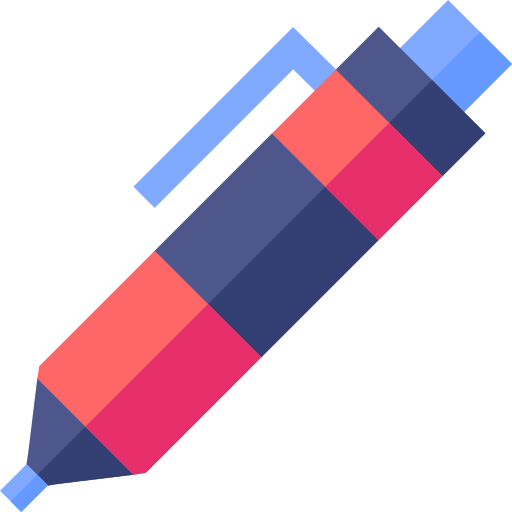
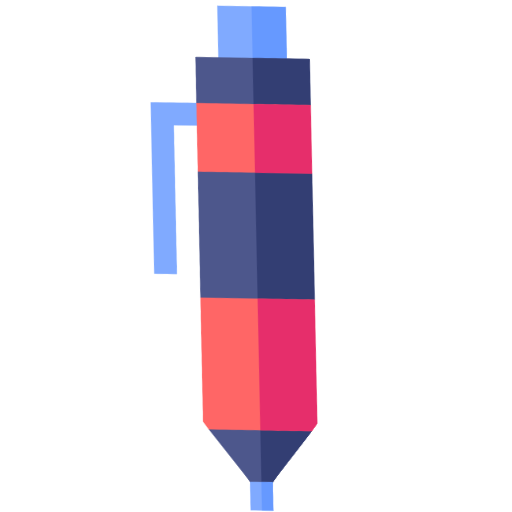
niveles

diff --git a/src/states/mapa.py b/src/states/mapa.py
@@ -3,6 +3,7 @@ from pathlib import Path
 
 class mapas():
     def __init__(self,lista_nivel,imagenes_libreria):
+
         self.BASE_DIR = Path(__file__).resolve().parent.parent.parent
         self.ASSETS_DIR = self.BASE_DIR / "assets"
         self.arrastrando = False
@@ -10,23 +11,39 @@ class mapas():
         self.objetos_activos = [] # Aquí guardaremos diccionarios con {imagen, rect}
         self.objeto_seleccionado = None
         self.imagenes = self.obtener_objeto(imagenes_libreria)
+
         # Inicializamos los objetos del nivel UNA SOLA VEZ
         for obj in lista_nivel:
-            img = self.imagenes[obj["tipo"]]
+            img_original = self.imagenes[obj["tipo"]]
+            
+            if "size" in obj:
+                img_original = pygame.transform.scale(img_original, obj["size"])
+            else:
+                img_original = pygame.transform.scale(img_original, (150, 100))  # Tamaño por defecto
+            
+            img = img_original
+            if "rotation" in obj:
+                img = pygame.transform.rotate(img_original, obj["rotation"])
+            
             rect = img.get_rect(topleft=obj["pos"])
             mask = pygame.mask.from_surface(img)
-            silueta_img = mask.to_surface(setcolor=(50, 50, 50, 150), unsetcolor=(0, 0, 0, 0))
-            # Creamos la sombra (meta) para este objeto
-            rect_meta = img.get_rect(topleft=obj["pos_meta"])
+            mask_original = pygame.mask.from_surface(img_original)
+            
+            silueta_img = mask_original.to_surface(setcolor=(50, 50, 50, 150), unsetcolor=(0, 0, 0, 0))
+            rect_meta = img_original.get_rect(topleft=obj["pos_meta"])
             
             self.objetos_activos.append({
                 'tipo': obj["tipo"],
                 'img': img,
+                'img_original': img_original,
+                'img_rotated': img if "rotation" in obj else None,
                 'rect': rect,
                 'mask': mask,
                 'silueta': silueta_img,
                 'rect_meta': rect_meta,
-                'encajado': False
+                'encajado': False,
+                'rotated': "rotation" in obj,
+                'has_rotation': "rotation" in obj
             })
         
     
@@ -34,11 +51,10 @@ class mapas():
         # Ajustado para usar la ruta dinámica
         imagenes_listas = {}
         for clave, ruta in NIVEL.items():
-        # Cargamos y optimizamos la imagen para Pygame
-           IMAGE_PATH = self.BASE_DIR / ruta
-           img = pygame.image.load(str(IMAGE_PATH)).convert_alpha()
-           image = pygame.transform.scale(img, (150, 100)) 
-           imagenes_listas[clave] = image
+        # Cargamos la imagen sin escalar
+            IMAGE_PATH = self.BASE_DIR / ruta
+            img = pygame.image.load(str(IMAGE_PATH)).convert_alpha()
+            imagenes_listas[clave] = img
         return imagenes_listas
     
     
@@ -55,27 +71,46 @@ class mapas():
                         x_rel = event.pos[0] - obj['rect'].x
                         y_rel = event.pos[1] - obj['rect'].y
                         
-                        if obj['mask'].get_at((x_rel, y_rel)):
-                            print(f"¡Agarraste el objeto: {obj['tipo']}!")
-                            self.objeto_seleccionado = obj
-                            self.offset_x = obj['rect'].x - event.pos[0]
-                            self.offset_y = obj['rect'].y - event.pos[1]
+                        try:
+                            if 0 <= x_rel < obj['mask'].get_size()[0] and 0 <= y_rel < obj['mask'].get_size()[1]:
+                                if obj['mask'].get_at((x_rel, y_rel)):
+                                    print(f"¡Agarraste el objeto: {obj['tipo']}!")
+                                    self.objeto_seleccionado = obj
+                                    self.offset_x = obj['rect'].x - event.pos[0]
+                                    self.offset_y = obj['rect'].y - event.pos[1]
+                                    
+                                    if obj['rotated']:
+                                        centro = obj['rect'].center
+                                        obj['img'] = obj['img_original']
+                                        obj['rect'] = obj['img'].get_rect(center=centro)
+                                        obj['mask'] = pygame.mask.from_surface(obj['img'])
+                                        obj['rotated'] = False
+                                    
+                                    self.objetos_activos.remove(obj)
+                                    self.objetos_activos.append(obj)
+                        except IndexError:
+                            pass
                         print(f"¡Objeto seleccionado: {obj['tipo']}!")
                         break
 
         elif event.type == pygame.MOUSEBUTTONUP:
             if event.button == 1 and self.objeto_seleccionado:
-                # LÓGICA DE ENCAJE (SNAP)
                 obj = self.objeto_seleccionado
                 
-                # Calculamos distancia entre el objeto y su meta
                 distancia = pygame.math.Vector2(obj['rect'].topleft).distance_to(obj['rect_meta'].topleft)
                 
-                # Si está a menos de 40 píxeles, lo succionamos a la meta
                 if distancia < 40:
                     obj['rect'].topleft = obj['rect_meta'].topleft
                     obj['encajado'] = True
                     print(f"¡{obj['tipo']} colocado correctamente!")
+
+                else:
+                    if obj['has_rotation'] and not obj['rotated']:
+                        centro = obj['rect'].center
+                        obj['img'] = obj['img_rotated']
+                        obj['rect'] = obj['img'].get_rect(center=centro)
+                        obj['mask'] = pygame.mask.from_surface(obj['img'])
+                        obj['rotated'] = True
                 
                 self.objeto_seleccionado = None
 

diff --git a/src/utils/constants.py b/src/utils/constants.py
@@ -1,25 +1,88 @@
-# Ejemplo de lista de lo que queremos ver en pantalla
+
 NIVEL1 = {
     
-    "cable1": "assets/images/nivel1/2547122.png",
-    "cable2": "assets/images/nivel1/6475229.png",
-    "cable3": "assets/images/nivel1/7663880.png",
-    "cable4": "assets/images/nivel1/11152790.png",
+    "cablegris": "assets/images/nivel1/2547122.png",
+    "cablecolores": "assets/images/nivel1/6475229.png",
+    "cableblanco": "assets/images/nivel1/7663880.png",
+    "cablenegro": "assets/images/nivel1/11152790.png",
     "herramienta1": "assets/images/nivel1/herramienta1.png",
-    "herramienta2": "assets/images/nivel1/herramienta2.png",
-    "herramienta3": "assets/images/nivel1/herramienta3.png",
-    "herramienta4": "assets/images/nivel1/herramienta4.png",
+    "llave": "assets/images/nivel1/herramienta2.png",
+    "sierra": "assets/images/nivel1/herramienta3.png",
+    "destornillador": "assets/images/nivel1/herramienta4.png",
     
 }
-# Ejemplo de lista de lo que queremos ver en pantalla
+
 lista_nivel1= [
-    {"tipo": "cable1", "pos": (50, 50),"pos_meta":(500, 300)},
-    {"tipo": "cable2", "pos": (300, 200),"pos_meta":(100, 200)},
-    {"tipo": "cable3", "pos": (500, 400),"pos_meta":(373, 334)},
-    {"tipo": "cable4", "pos": (700, 400),"pos_meta":(111, 400)},
-    {"tipo": "herramienta1", "pos": (100, 200),"pos_meta":(200, 300)},
-    {"tipo": "herramienta2", "pos": (300, 200),"pos_meta":(600, 300)},
-    {"tipo": "herramienta3", "pos": (500, 400),"pos_meta":(600, 300)},
-    {"tipo": "herramienta4", "pos": (700, 400),"pos_meta":(100, 300)}
+
+    {"tipo": "cablegris", "pos": (1059, 403),"pos_meta":(292, 142), "size": (122, 122), "rotation": 10},
+    {"tipo": "cablecolores", "pos": (1120, 18),"pos_meta":(442, 142), "size": (114, 114), "rotation": 10},
+    {"tipo": "cableblanco", "pos": (13, 560),"pos_meta":(671, 496), "size": (153, 153), "rotation": 7},
+    {"tipo": "cablenegro", "pos": (0, 157),"pos_meta":(825, 465), "size": (185, 185), "rotation": 11},
+    {"tipo": "herramienta1", "pos": (36, 362),"pos_meta":(819, 97), "size": (168, 168), "rotation": 351},
+    {"tipo": "llave", "pos": (1068,157),"pos_meta":(666, 111), "size": (211, 211), "rotation": 342},
+    {"tipo": "sierra", "pos": (1014, 343),"pos_meta":(201, 307), "size": (376, 376), "rotation": 356},
+    {"tipo": "destornillador", "pos": (36, 0),"pos_meta":(458, 496), "size": (164, 164), "rotation": 330}
+
     ]
-NIVEL2 = {}
+
+NIVEL2 = {
+
+    "borrador": "assets/images/nivel2/borrador.png",
+    "colores": "assets/images/nivel2/colores.png",
+    "lapicero": "assets/images/nivel2/lapicero.png",
+    "lapicero2": "assets/images/nivel2/lapicero2.png",
+    "lapiz": "assets/images/nivel2/lapiz.png",
+    "libreta": "assets/images/nivel2/libreta.png",
+    "marcadores": "assets/images/nivel2/marcadores.png",
+    "pegablanca": "assets/images/nivel2/pegablanca.png",
+    "pegaenbarra": "assets/images/nivel2/pegaenbarra.png",
+    "regla": "assets/images/nivel2/regla.png",
+    "sacapuntas": "assets/images/nivel2/sacapuntas.png",
+    "tijeras": "assets/images/nivel2/tijeras.png",
+    "tipex": "assets/images/nivel2/tipex.png",
+
+}
+
+lista_nivel2= [
+
+    {"tipo": "borrador", "pos": (994, 210),"pos_meta":(694, 312), "size": (103, 103), "rotation": 19},
+    {"tipo": "colores", "pos": (10, 5),"pos_meta":(632, 519), "size": (166, 166), "rotation": 13},
+    {"tipo": "lapicero2", "pos": (951, 15),"pos_meta":(669, 83), "size": (171, 171), "rotation": 26},
+    {"tipo": "lapiz", "pos": (0, 183),"pos_meta":(447, 533), "size": (157, 157), "rotation": 353},
+    {"tipo": "libreta", "pos": (1010, 427),"pos_meta":(252, 446), "size": (243, 243), "rotation": 348},
+    {"tipo": "marcadores", "pos": (8, 533),"pos_meta":(804, 515), "size": (170, 170), "rotation": 355},
+    {"tipo": "pegablanca", "pos": (0, 317),"pos_meta":(376, 62), "size": (170, 170), "rotation": 340},
+    {"tipo": "pegaenbarra", "pos": (1030, 302),"pos_meta":(526, 115), "size": (116, 116), "rotation": 343},
+    {"tipo": "regla", "pos": (994, 130),"pos_meta":(150, 71), "size": (345, 345), "rotation": 11},
+    {"tipo": "sacapuntas", "pos": (168, 557),"pos_meta":(485, 446), "size": (73, 73), "rotation": 350},
+    {"tipo": "tijeras", "pos": (30, 204),"pos_meta":(382, 253), "size": (164, 164), "rotation": 14},
+    {"tipo": "lapicero", "pos": (20, 349),"pos_meta":(726, 39), "size": (215, 215), "rotation": 25},
+    {"tipo": "tipex", "pos": (1120, 5),"pos_meta":(804, 302), "size": (114, 114), "rotation": 333}
+
+    ]
+
+NIVEL3 = {
+
+    "cesta-de-ropa": "assets/images/nivel3/cesta-de-ropa.png",
+    "coleto": "assets/images/nivel3/coleto.png",
+    "desinfectante": "assets/images/nivel3/desinfectante.png",
+    "destapador": "assets/images/nivel3/destapador.png",
+    "esponja": "assets/images/nivel3/esponja.png",
+    "jabon": "assets/images/nivel3/jabon.png",
+    "pala": "assets/images/nivel3/pala.png",
+    "productos-limpieza": "assets/images/nivel3/productos-limpieza.png",
+    
+}
+
+lista_nivel3= [
+
+    {"tipo": "cesta-de-ropa", "pos": (0, 37),"pos_meta":(295, 489), "size": (240, 240), "rotation": 13},
+    {"tipo": "coleto", "pos": (4, 395),"pos_meta":(737, 489), "size": (250, 250), "rotation": 349},
+    {"tipo": "desinfectante", "pos": (931, 55),"pos_meta":(640, 0), "size": (210, 210), "rotation": 357},
+    {"tipo": "destapador", "pos": (0, 240),"pos_meta":(358, 0), "size": (250, 250), "rotation": 27},
+    {"tipo": "esponja", "pos": (1030, 320),"pos_meta":(432, 365), "size": (102, 102), "rotation": 343},
+    {"tipo": "jabon", "pos": (1070, 50),"pos_meta":(295, 266), "size": (187, 187), "rotation": 15},
+    {"tipo": "pala", "pos": (1039, 277),"pos_meta":(264, 11), "size": (224, 224), "rotation": 13},
+    {"tipo": "productos-limpieza", "pos": (1014, 445),"pos_meta":(535, 489), "size": (230, 230), "rotation": 7},
+
+    ]

diff --git a/src/game.py b/src/game.py
@@ -1,13 +1,13 @@
 import pygame
 import sys
 from enfocate import GameBase, GameMetadata, COLORS
-##from src.settings import *
 
 # Importamos los estados
 from .states.menu import MenuState
 from .states.selector import LevelSelectorState
 from .states.juego import Level
 from .states.game_over import GameOver
+from .states.pausa import Pause
 
 class MiJuego(GameBase):
     def __init__(self) -> None:
@@ -24,6 +24,7 @@ class MiJuego(GameBase):
         # 3. Preparar variables (sin instanciar clases que usen fuentes aún)
         self.states = {}
         self.current_state = "MAIN_MENU"
+        self.current_events = []
 
     def on_start(self):
         """Este método lo llama el motor cuando Pygame ya está listo"""
@@ -34,24 +35,28 @@ class MiJuego(GameBase):
             "LEVEL_1": Level(1),
             "LEVEL_2": Level(2),
             "LEVEL_3": Level(3),
-            "GAME_OVER": GameOver()
+            "GAME_OVER": GameOver(),
+            "PAUSE": Pause()
         }
 
-    def update(self, dt: float):
-        # 1. CORRECCIÓN DEL ATRIBUTO:
-        # En el SDK enfocate, la lista de eventos se guarda en self._events
-        eventos_actuales = pygame.event.get() 
+    def handle_events(self, events):
+        self.current_events = events
 
-        # 2. Pasamos los eventos reales al estado actual
-        new_state = self.states[self.current_state].handle_events(eventos_actuales)
+    def update(self, dt: float):
+        
+        new_state = self.states[self.current_state].handle_events(self.current_events)
         
         if new_state == "EXIT":
             pygame.quit()
             sys.exit()
             
-        # 3. Gestión de cambio de estado
+
         if new_state in self.states:
             if new_state != self.current_state:
+
+                if new_state == "PAUSE":
+                    self.states["PAUSE"].previous_state = self.current_state
+                    self.states["PAUSE"].previous_state_obj = self.states[self.current_state]
                 self.current_state = new_state
 
     def draw(self):

diff --git a/src/states/juego.py b/src/states/juego.py
@@ -9,32 +9,45 @@ class Level:
         self.num = num
         self.font = pygame.font.SysFont("Arial", 40)
         
-     
+    
         if self.num == 1:
+
             self.mapa_logica = mapas(lista_nivel1, NIVEL1)
+
+            self.fondo = pygame.Surface((1280, 720))
+            self.fondo.fill((155, 246, 255))
+
+        if self.num == 2:
+
+            self.mapa_logica = mapas(lista_nivel2, NIVEL2)
+
+            self.fondo = pygame.Surface((1280, 720))
+            self.fondo.fill((155, 246, 255))
+
+        if self.num == 3:
+
+            self.mapa_logica = mapas(lista_nivel3, NIVEL3)
             
-            try:
-                self.fondo = pygame.image.load("fondo.png").convert()
-            except:
-                self.fondo = pygame.Surface((1280, 720))
-                self.fondo.fill((200, 200, 200))
+            self.fondo = pygame.Surface((1280, 720))
+            self.fondo.fill((155, 246, 255))
 
     def handle_events(self, events):
-       
+
         for e in events:
-           
+
             if hasattr(self, 'mapa_logica'):
                 self.mapa_logica.handle_event(e)
             
             if e.type == pygame.KEYDOWN:
                 if e.key == pygame.K_m: return "SELECTOR"
-                if e.key == pygame.K_p: return "GAME_OVER" 
+                if e.key == pygame.K_p: return "GAME_OVER"
+                if e.key == pygame.K_ESCAPE: return "PAUSE"
         
         
         return f"LEVEL_{self.num}"
 
     def draw(self, screen):
-       
+
         if hasattr(self, 'mapa_logica'):
             self.mapa_logica.draw(screen, self.fondo)
         else:

diff --git a/src/states/pausa.py b/src/states/pausa.py
@@ -1,0 +1,42 @@
+import pygame 
+from pathlib import Path
+from src.states.menu import Button 
+
+class Pause():
+    def __init__(self):
+        self.continuar = False
+        self.salir = False
+        self.previous_state = None
+        self.previous_state_obj = None
+
+        ROOT_DIR = Path(__file__).resolve().parent.parent.parent
+        path_fuente = ROOT_DIR / "assets" / "fonts" / "flatory-slab-condensed.ttf"
+        
+        self.font = pygame.font.Font(str(path_fuente), 100)
+    
+
+        self.boton_continuar = Button(550, 300, 200, 50, "CONTINUAR", "CONTINUE")
+        self.boton_salir = Button(550, 400, 200, 50, "SALIR", "MAIN_MENU")
+
+    def handle_events(self, events):
+
+        if self.boton_continuar.is_clicked_no_event():
+            return self.previous_state if self.previous_state else "SELECTOR"
+        
+        if self.boton_salir.is_clicked_no_event():
+            return "MAIN_MENU"
+        return "PAUSE"
+
+    def draw(self, surface):
+
+        if self.previous_state_obj:
+            self.previous_state_obj.draw(surface)
+        
+        overlay = pygame.Surface(surface.get_size(), pygame.SRCALPHA)
+        overlay.fill((0, 0, 0, 150))  
+        surface.blit(overlay, (0, 0))
+
+        title = self.font.render("PAUSA", True, (255, 255, 255))
+        surface.blit(title, (525, 50))
+        self.boton_continuar.draw(surface)
+        self.boton_salir.draw(surface)
